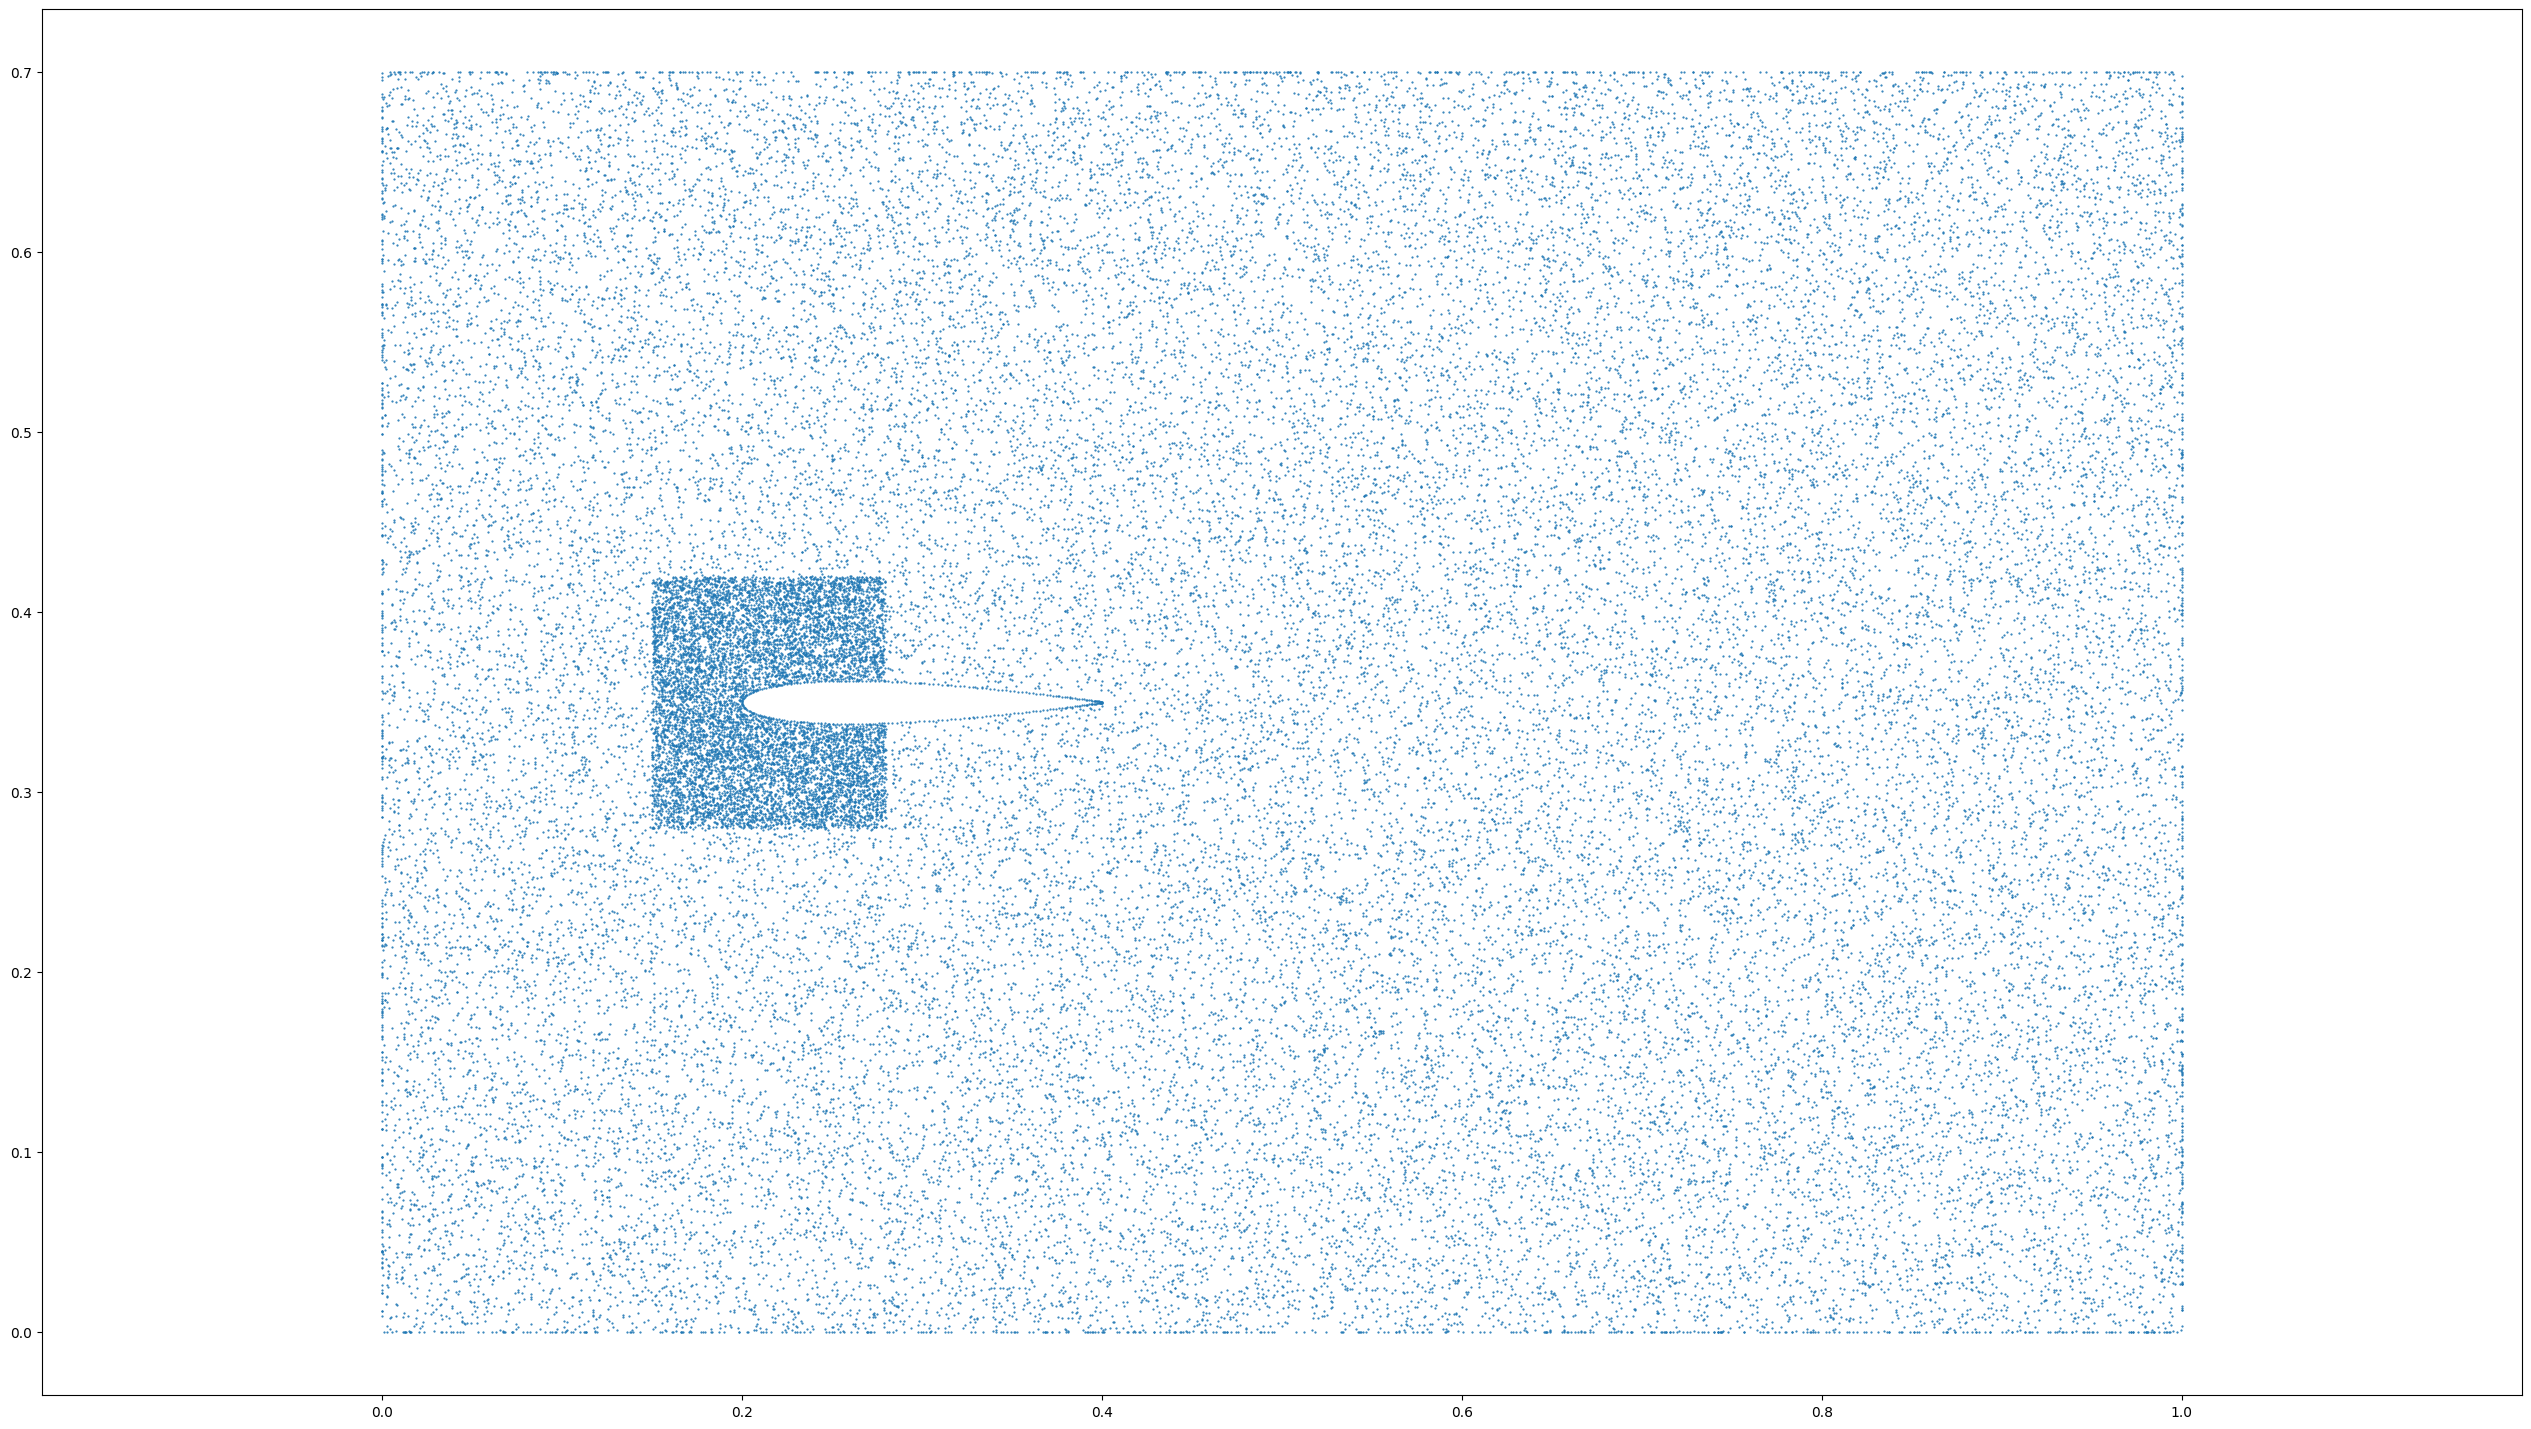
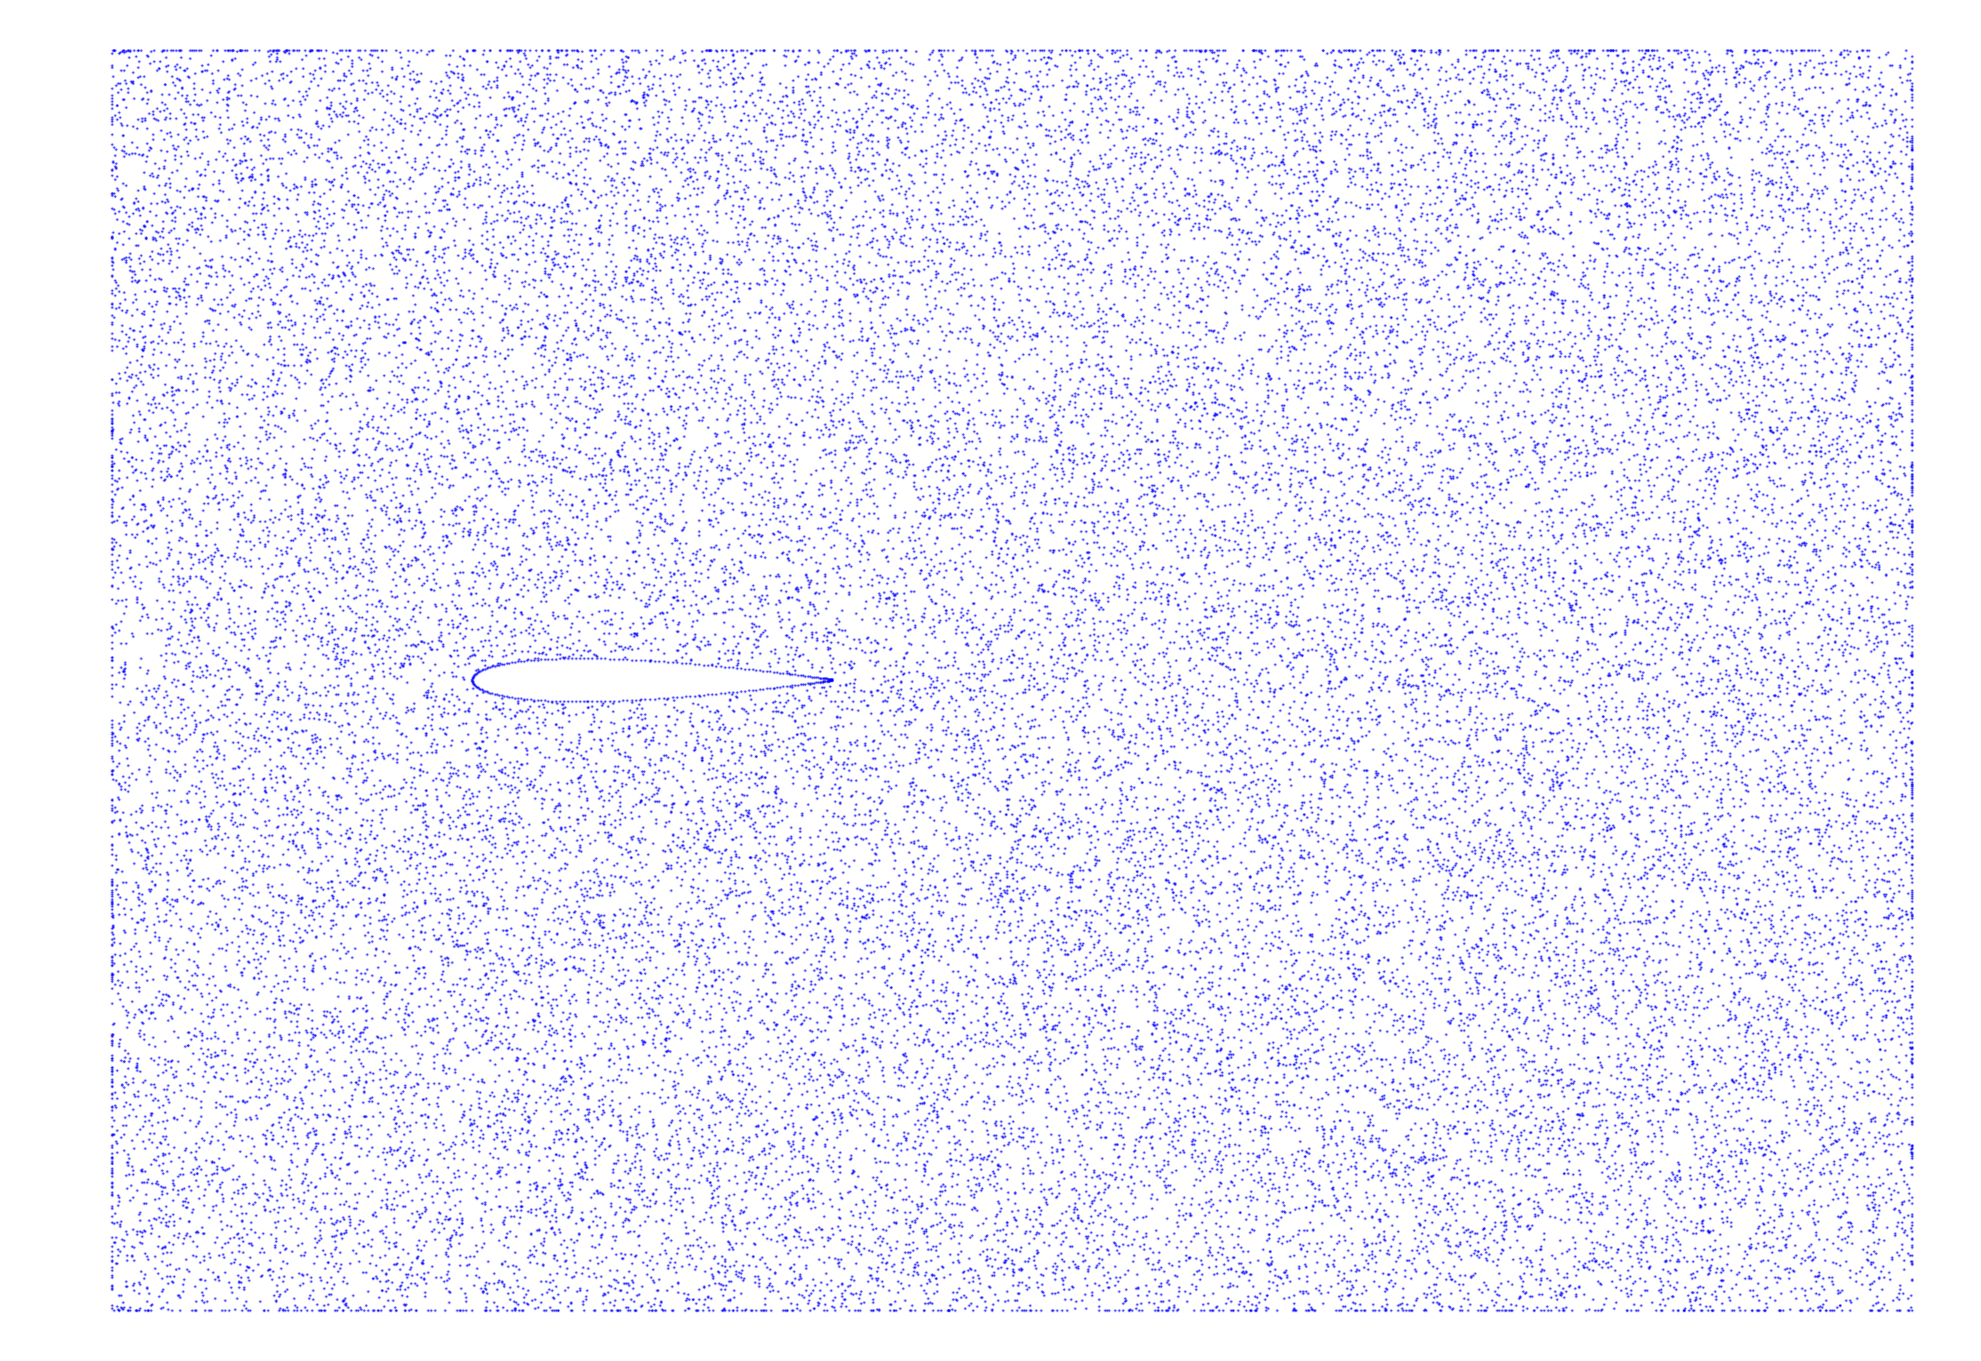
dataset and modedl updates

Changed region(s): [[0.0616, 0.0309, 0.9546, 0.9875]]

diff --git a/src/components/sidebar.jsx b/src/components/sidebar.jsx
@@ -7,10 +7,30 @@ const datasetTreeData = {
   },
   'Boundary Conditions': {
     Inlet: {
-      'Velocity (m/s)': '10',
+      type: {
+        'Velocity (m/s)': '10',
+        'Pressure (atm)': '1',
+        'Mass (kg)': '200',
+        'Volume (m^3))': '300',
+      },
+      input: {
+        key: 'Velocity (m/s)',
+        value: '10',
+      },
+      showDirect: true,
     },
     Outlet: {
-      'Pressure (atm)': '1',
+      type: {
+        'Velocity (m/s)': '10',
+        'Pressure (atm)': '1',
+        'Mass (kg)': '200',
+        'Volume (m^3))': '300',
+      },
+      input: {
+        key: 'Pressure (atm)',
+        value: '1',
+      },
+      showDirect: true,
     },
     Symmetry: 'Yes',
     Wall: 'No-slip',
@@ -35,8 +55,11 @@ const modelTrainingTreeData = {
 };
 
 const CadModelData = {
-  Physics: {
-    Aerofoil: 'NACA 0012',
+  Airfoil: {
+    Inlet: '',
+    Outlet: '',
+    Wall: '',
+    Symmetry: '',
   },
 };
 
@@ -50,6 +73,8 @@ const Sidebar = ({
   const [expandedNodes, setExpandedNodes] = useState([]);
   const [selectedLeafNode, setSelectedLeafNode] = useState(null);
   const [treeData, setTreeData] = useState({});
+
+  const [selectedInputType, setSelectedInputType] = useState('Velocity (m/s)');
 
   useEffect(() => {
     if (selectedMenuItem === 'Dataset') setTreeData(datasetTreeData);
@@ -102,7 +127,7 @@ const Sidebar = ({
     return Object.entries(data)?.map(([key, value]) => {
       const node = parentNode ? `${parentNode}.${key}` : key;
       const isExpanded = expandedNodes.includes(node);
-      const isLeaf = typeof value !== 'object';
+      const isLeaf = typeof value !== 'object' || value?.showDirect === true;
 
       return (
         <div key={node} className='relative'>
@@ -150,6 +175,8 @@ const Sidebar = ({
     // if (selectedMenuItem === 'Model Training') setModelParams({ ...obj });
   };
 
+  // console.log(Object.entries(getLeafNodeValue(selectedLeafNode)?.type || {}));
+
   return (
     <div className='flex h-screen'>
       {isSidebarOpen && (
@@ -171,18 +198,49 @@ const Sidebar = ({
       {isRightSidebarOpen && (
         <aside className='w-64 bg-gray-100 text-gray-800 p-4'>
           <div className='mb-4'>
-            <label htmlFor='leafNodeInput' className='block font-bold mb-1'>
-              {selectedLeafNode}
-            </label>
-            <input
-              type='text'
-              id='leafNodeInput'
-              className='w-full px-2 py-1 border border-gray-300 rounded'
-              value={getLeafNodeValue(selectedLeafNode) || ''}
-              onChange={e =>
-                updateLeafNodeValue(selectedLeafNode, e.target.value)
-              }
-            />
+            {typeof getLeafNodeValue(selectedLeafNode) === 'object' ? (
+              <>
+                Type:
+                <select
+                  className='bg-gray-200 m-2 px-1'
+                  onChange={e => setSelectedInputType(e.target.value)}
+                >
+                  {Object.keys(getLeafNodeValue(selectedLeafNode)?.type)?.map(
+                    (type, index) => (
+                      <option key={index}>{type}</option>
+                    )
+                  )}
+                </select>
+                <label htmlFor='leafNodeInput' className='block font-bold mb-1'>
+                  {selectedInputType}
+                </label>
+                <input
+                  type='text'
+                  id='leafNodeInput'
+                  className='w-full px-2 py-1 border border-gray-300 rounded'
+                  value={
+                    getLeafNodeValue(selectedLeafNode)?.type[
+                      selectedInputType
+                    ] || ''
+                  }
+                />
+              </>
+            ) : (
+              <>
+                <label htmlFor='leafNodeInput' className='block font-bold mb-1'>
+                  {selectedLeafNode}
+                </label>
+                <input
+                  type='text'
+                  id='leafNodeInput'
+                  className='w-full px-2 py-1 border border-gray-300 rounded'
+                  value={getLeafNodeValue(selectedLeafNode) || ''}
+                  onChange={e =>
+                    updateLeafNodeValue(selectedLeafNode, e.target.value)
+                  }
+                />
+              </>
+            )}
           </div>
         </aside>
       )}

diff --git a/src/components/menuBar.jsx b/src/components/menuBar.jsx
@@ -45,7 +45,7 @@ const MenuBar = ({ onMenuItemSelect, onFileSelect, onResultSelect }) => {
       {/* small menu bar  */}
       {selectedMenuItem === 'Results' && (
         <div className='px-10 py-2 bg-gray-100/50'>
-          {/* Choose Results to Display: */}
+          Results:
           <select className='bg-gray-200 mx-2 px-1' onChange={onResultSelect}>
             <option>u Velocity</option>
             <option>v Velocity</option>

diff --git a/src/App.jsx b/src/App.jsx
@@ -63,7 +63,7 @@ export default function App() {
             <ImageViewer imageUrl='/dataset.png' />
           )}
           {selectedMenuItem === 'Model Training' && (
-            <NeuralNetViewer modelTrainingTreeData={modelParams} />
+            <ImageViewer imageUrl='/model.png' />
           )}
           {selectedMenuItem === 'Results' && (
             <ImageViewer imageUrl={selectedResult + '.png'} />

diff --git a/temp.py b/temp.py
@@ -1,0 +1,191 @@
+import deepxde as dde
+import numpy as np
+import tensorflow as tf
+from matplotlib import pyplot as plt
+
+dde.config.set_random_seed(48)
+dde.config.set_default_float('float64')
+
+# set domain
+xmin, xmax = 0.0, 1.0
+ymin, ymax = 0.0, 0.7
+
+# equation constants
+rho  = 1.0
+mu   = 0.02
+umax = 1.0
+
+def boundaryNACA4D(M, P, SS, c, n, offset_x, offset_y):
+    """
+    Compute the coordinates of a NACA 4-digits airfoil
+    
+    Args:
+        M:  maximum camber value (*100)
+        P:  position of the maximum camber alog the chord (*10)
+        SS: maximum thickness (*100)
+        c:  chord length
+        n:  the total points sampled will be 2*n
+    """
+    m = M / 100
+    p = P / 10
+    t = SS / 100
+    
+    if (m == 0):
+        p = 1
+    
+    # Chord discretization (cosine discretization)
+    xv = np.linspace(0.0, c, n+1)
+    xv = c / 2.0 * (1.0 - np.cos(np.pi * xv / c))
+    
+    # Thickness distribution
+    ytfcn = lambda x: 5 * t * c * (0.2969 * (x / c)**0.5 - 
+                                   0.1260 * (x / c) - 
+                                   0.3516 * (x / c)**2 + 
+                                   0.2843 * (x / c)**3 - 
+                                   0.1015 * (x / c)**4)
+    yt = ytfcn(xv)
+    
+    # Camber line
+    yc = np.zeros(np.size(xv))
+    
+    for ii in range(n+1):
+        if xv[ii] <= p * c:
+            yc[ii] = c * (m / p**2 * (xv[ii] / c) * (2 * p - (xv[ii] / c)))
+        else:
+            yc[ii] = c * (m / (1 - p)**2 * (1 + (2 * p - (xv[ii] / c)) * (xv[ii] / c) - 2 * p))
+    
+    # Camber line slope
+    dyc = np.zeros(np.size(xv))
+    
+    for ii in range(n+1):
+        if xv[ii] <= p * c:
+            dyc[ii] = m / p**2 * 2 * (p - xv[ii] / c)
+        else:
+            dyc[ii] = m / (1 - p)**2 * 2 * (p - xv[ii] / c)
+            
+    # Boundary coordinates and sorting        
+    th = np.arctan2(dyc, 1)
+    xU = xv - yt * np.sin(th)
+    yU = yc + yt * np.cos(th)
+    xL = xv + yt * np.sin(th)
+    yL = yc - yt * np.cos(th)
+    
+    x = np.zeros(2 * n + 1)
+    y = np.zeros(2 * n + 1)
+    
+    for ii in range(n):
+        x[ii] = xL[n - ii]
+        y[ii] = yL[n - ii]
+        
+    x[n : 2 * n + 1] = xU
+    y[n : 2 * n + 1] = yU
+    
+    return np.vstack((x + offset_x, y + offset_y)).T
+
+def navier_stokes(x, y):
+    """
+    System of PDEs to be minimized: incompressible Navier-Stokes equation in the
+    continuum-mechanics based formulations.
+    
+    """
+    psi, p, sigma11, sigma22, sigma12 = y[:, 0:1], y[:, 1:2], y[:, 2:3], y[:, 3:4], y[:, 4:5]
+    
+    u =   dde.grad.jacobian(y, x, i = 0, j = 1)
+    v = - dde.grad.jacobian(y, x, i = 0, j = 0)
+    
+    u_x = dde.grad.jacobian(u, x, i = 0, j = 0)
+    u_y = dde.grad.jacobian(u, x, i = 0, j = 1)
+    
+    v_x = dde.grad.jacobian(v, x, i = 0, j = 0)
+    v_y = dde.grad.jacobian(v, x, i = 0, j = 1)
+    
+    sigma11_x = dde.grad.jacobian(y, x, i = 2, j = 0)
+    sigma12_x = dde.grad.jacobian(y, x, i = 4, j = 0)
+    sigma12_y = dde.grad.jacobian(y, x, i = 4, j = 1)
+    sigma22_y = dde.grad.jacobian(y, x, i = 3, j = 1)
+    
+    continuumx = rho * (u * u_x + v * u_y) - sigma11_x - sigma12_y
+    continuumy = rho * (u * v_x + v * v_y) - sigma12_x - sigma22_y
+    
+    constitutive1 = - p + 2 * mu * u_x - sigma11
+    constitutive2 = - p + 2 * mu * v_y - sigma22
+    constitutive3 = mu * (u_y + v_x) - sigma12
+    constitutive4 = p + (sigma11 + sigma22) / 2
+    
+    return continuumx, continuumy, constitutive1, constitutive2, constitutive3, constitutive4
+
+# Geometry defintion
+farfield = dde.geometry.Rectangle([xmin, ymin], [xmax, ymax])
+airfoil  = dde.geometry.Polygon(boundaryNACA4D(0, 0, 12, 0.2, 250, 0.20, 0.35))
+geom     = dde.geometry.CSGDifference(farfield, airfoil)
+
+inner_rec  = dde.geometry.Rectangle([0.15, 0.28], [0.28, 0.42])
+outer_dom  = dde.geometry.CSGDifference(farfield, inner_rec)
+outer_dom  = dde.geometry.CSGDifference(outer_dom, airfoil)
+inner_dom  = dde.geometry.CSGDifference(inner_rec, airfoil)
+
+inner_points = inner_dom.random_points(10000)
+outer_points = outer_dom.random_points(10000)
+
+farfield_points = farfield.random_boundary_points(1280)
+airfoil_points  = boundaryNACA4D(0, 0, 12, 0.2, 125, 0.20, 0.35)
+
+points = np.append(inner_points, outer_points, axis = 0)
+points = np.append(points, farfield_points, axis = 0)
+points = np.append(points, airfoil_points, axis = 0)
+
+# Boundaries definition
+def boundary_farfield_inlet(x, on_boundary):
+    return on_boundary and np.isclose(x[0], xmin)
+
+def boundary_farfield_top_bottom(x, on_boundary):
+    return on_boundary and (np.isclose(x[1], ymax) or np.isclose(x[1], ymin))
+
+def boundary_farfield_outlet(x, on_boundary):
+    return on_boundary and np.isclose(x[0], xmax)
+
+def boundary_airfoil(x, on_boundary):
+    return on_boundary and (not farfield.on_boundary(x))
+
+# Boundary values definition
+def fun_u_farfield(x, y, _):
+    return dde.grad.jacobian(y, x, i = 0, j = 1) - 1.0
+
+def fun_no_slip_u(x, y, _):
+    return dde.grad.jacobian(y, x, i = 0, j = 1)
+
+def fun_no_slip_v(x, y, _):
+    return - dde.grad.jacobian(y, x, i = 0, j = 0)
+
+def funP(x):
+    return 0.0
+  
+# Boundary conditions assembly   
+bc_inlet_u = dde.OperatorBC(geom, fun_u_farfield, boundary_farfield_inlet)
+bc_inlet_v = dde.OperatorBC(geom, fun_no_slip_v, boundary_farfield_inlet)
+
+bc_top_bottom_u = dde.OperatorBC(geom, fun_u_farfield, boundary_farfield_top_bottom)
+bc_top_bottom_v = dde.OperatorBC(geom, fun_no_slip_v, boundary_farfield_top_bottom)
+
+bc_outlet_p = dde.DirichletBC(geom, funP, boundary_farfield_outlet, component = 1)
+
+bc_airfoil_u = dde.OperatorBC(geom, fun_no_slip_u, boundary_airfoil)
+bc_airfoil_v = dde.OperatorBC(geom, fun_no_slip_v, boundary_airfoil)
+
+bcs = [bc_inlet_u, bc_inlet_v, bc_top_bottom_u, bc_top_bottom_v, bc_outlet_p, bc_airfoil_u, bc_airfoil_v]
+
+# Problem setup
+data = dde.data.PDE(geom, navier_stokes, bcs, num_domain = 0, num_boundary = 0, num_test = 5000, anchors = points)
+
+plt.figure(figsize = (32, 18))
+plt.scatter(data.train_x_all[:,0], data.train_x_all[:,1], s = 0.3)
+plt.axis('equal')
+plt.show()
+
+dde.config.set_default_float('float64')
+# Neural network definition
+layer_size  = [2] + [40] * 8 + [5]
+activation  = 'tanh' 
+initializer = 'Glorot uniform'
+
+net = dde.nn.FNN(layer_size, activation, initializer)

diff --git a/tempCodeRunnerFile.py b/tempCodeRunnerFile.py
@@ -1,0 +1,2 @@
+
+# equation constants
